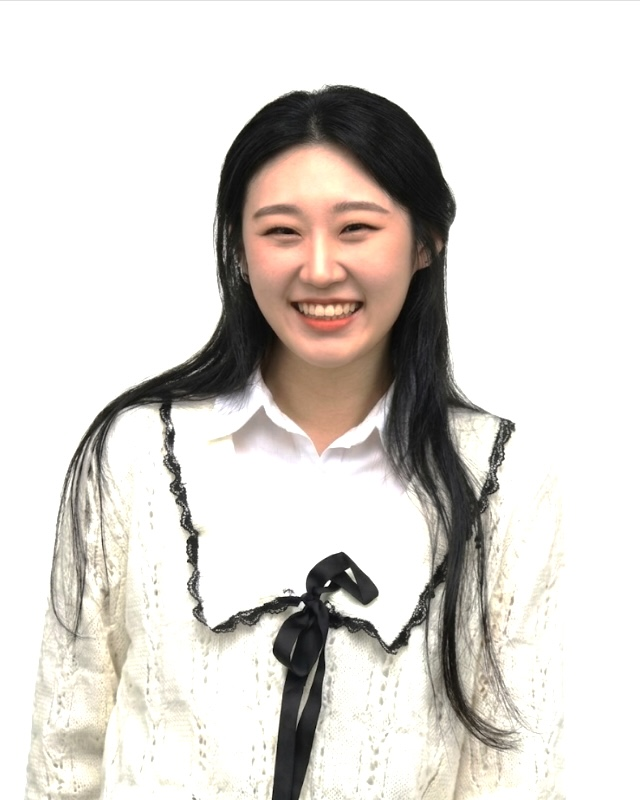
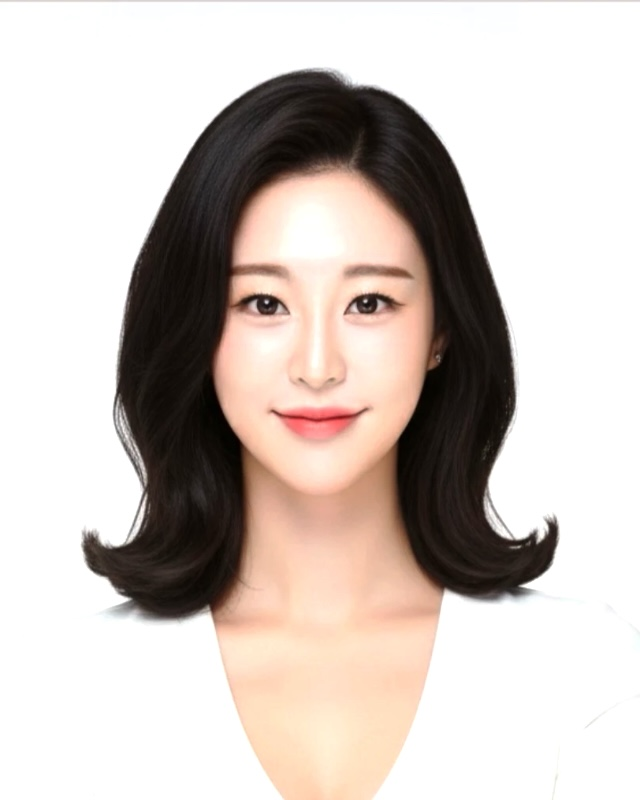
문지현 사진 교체 (새 프로필 사진)

diff --git a/index.html b/index.html
@@ -610,7 +610,7 @@ const T=[
 ];
 const list=document.getElementById('tlist');
 /* 사진: img/teachers/이름.jpg 를 PHOTO 에 적으면 사진, 없으면 성 한 글자 */
-const PHOTO={};['류성훈','이태형','장의순','김호랑','고연승','권현석','정민','홍진수','최정윤','이예섭','정지만','김현중','이창환','최현재','김경한','문지현','박정은'].forEach(n=>PHOTO[n]='img/teachers/'+n+'.jpg?v=1123i');
+const PHOTO={};['류성훈','이태형','장의순','김호랑','고연승','권현석','정민','홍진수','최정윤','이예섭','정지만','김현중','이창환','최현재','김경한','문지현','박정은'].forEach(n=>PHOTO[n]='img/teachers/'+n+'.jpg?v=1123j');
 /* 줄 순서: 1줄 국어 · 2줄 수학 · 3줄 영어 · 4줄 탐구 · 논술 (11/19 사장님 요청)
    같은 과목 안에서는 (탐구는 통합과학·통합사회·사탐 순으로 묶고) 사진 있는 강사 먼저, 나머지는 배열 순서 그대로 */
 const SUBJ=['국어','수학','영어','탐구','논술'];
